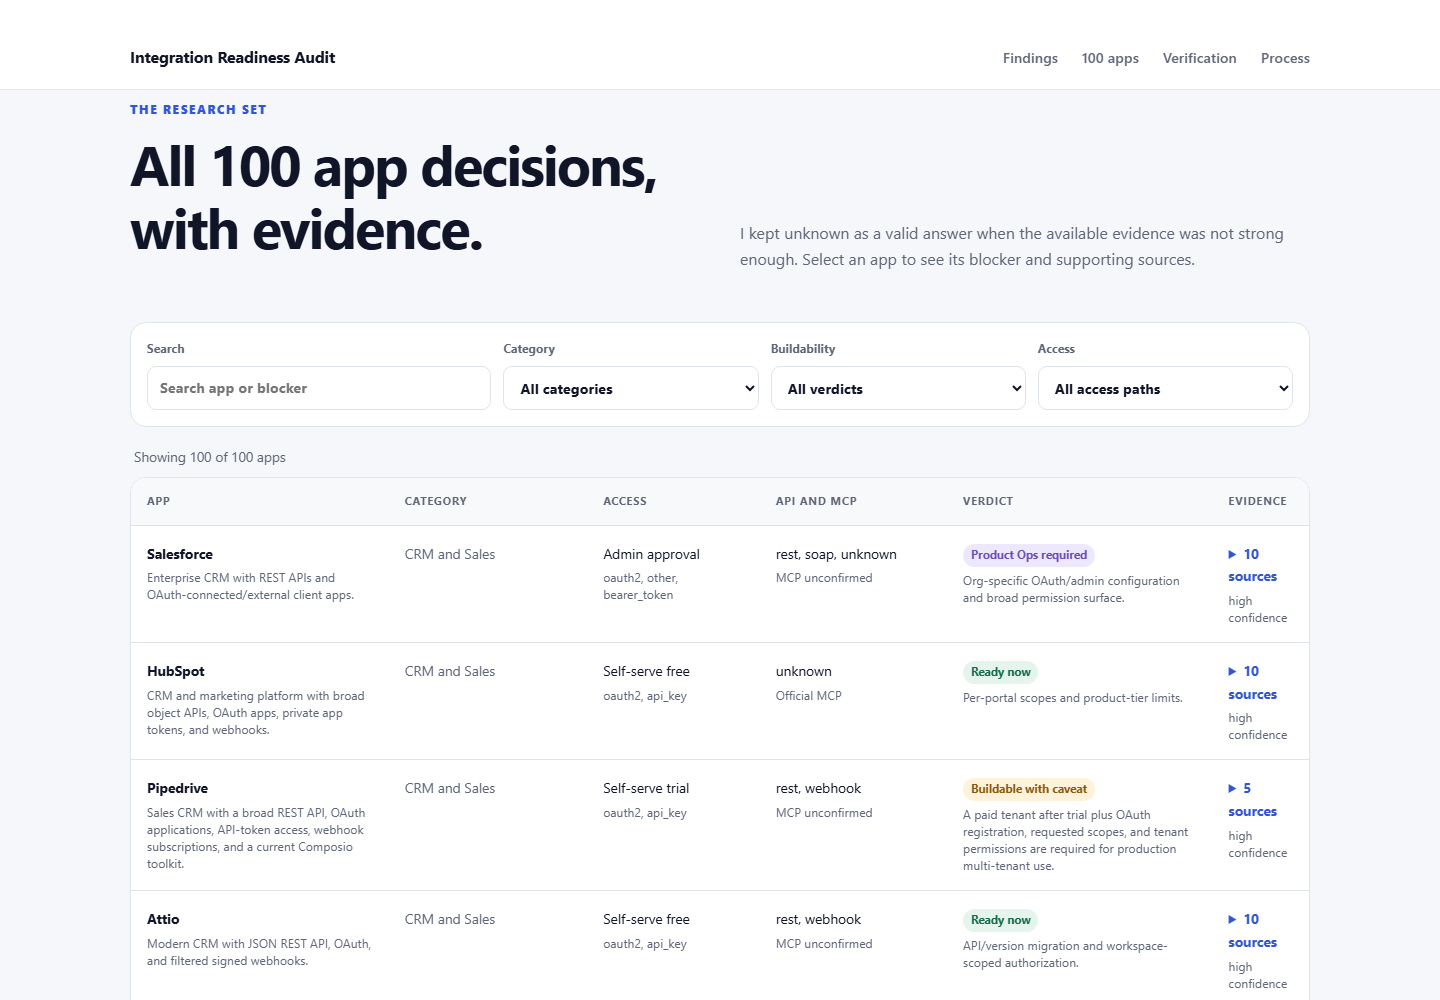
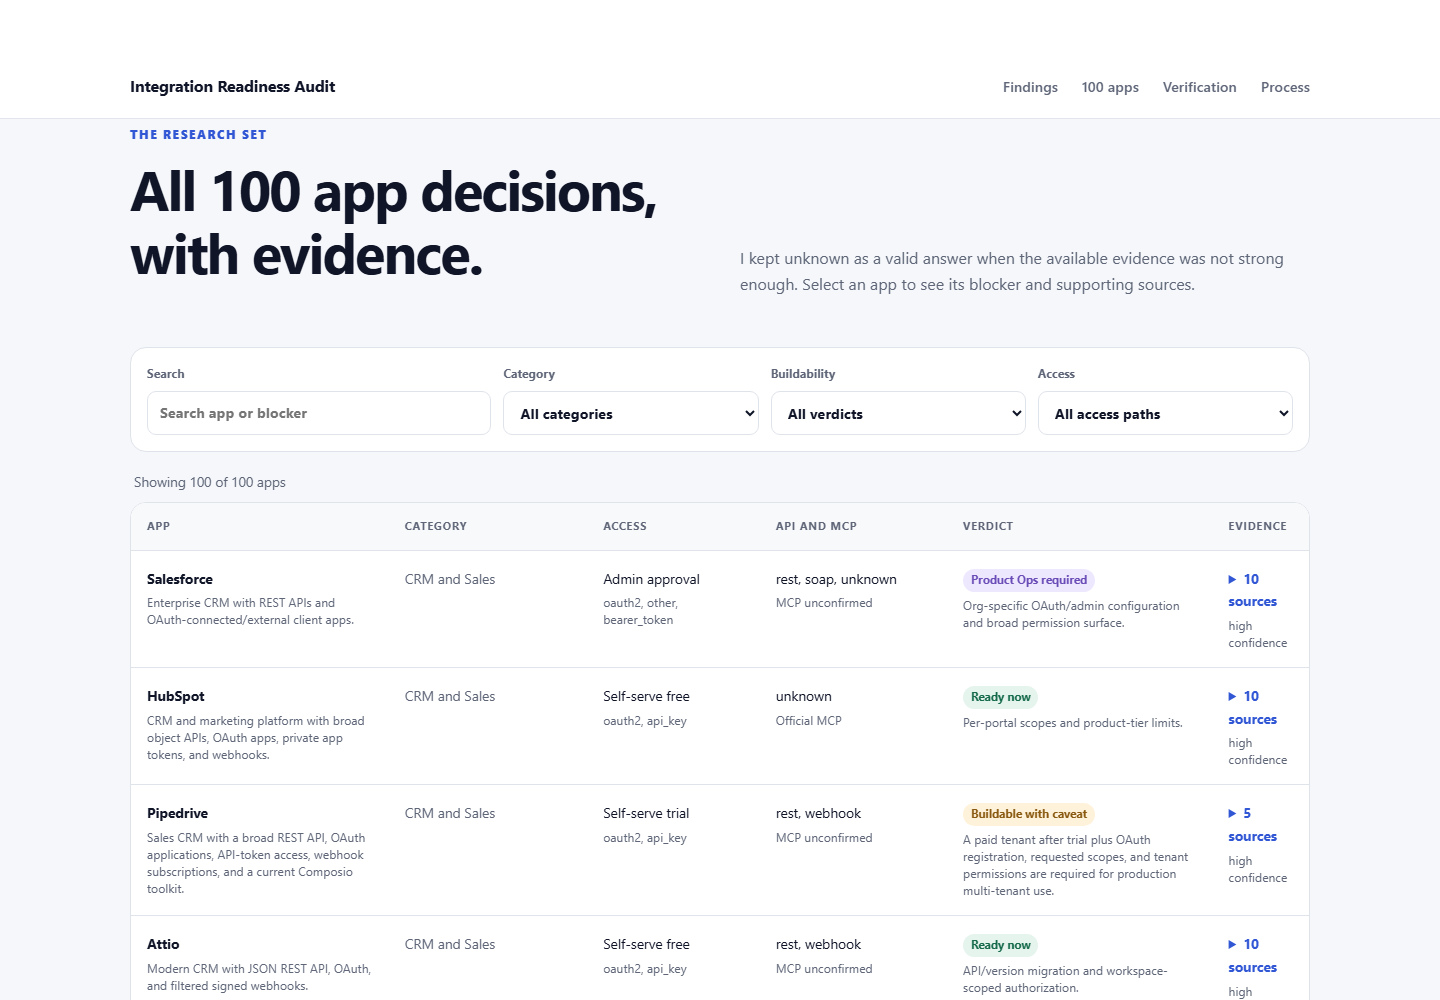
Refine final submission copy and proof

diff --git a/index.html b/index.html
@@ -21,7 +21,6 @@
 
   <main id="top">
     <section class="hero shell">
-      <p class="eyebrow">Composio AI Product Ops take-home</p>
       <h1>API access is common. Production readiness is the constraint.</h1>
       <p class="hero-copy">I researched 100 requested apps to understand which ones could become useful agent tools today, which ones need Product Ops work, and what repeatedly gets in the way. I found that discovering an API is usually the easy part. Credential access, approval gates, incomplete event coverage, and the operational quality of the integration determine whether it is actually ready to ship.</p>
       <div class="metrics" aria-label="Key results">
@@ -30,7 +29,6 @@
         <article><strong>70</strong><span>offer a self-serve access path</span></article>
         <article><strong>20</strong><span>apps independently reviewed</span></article>
       </div>
-      <p class="source-note">The final dataset contains 408 evidence entries classified as official source types. Research was checked on 16 and 17 September 2026.</p>
     </section>
 
     <section id="findings" class="section shell">
@@ -263,12 +261,6 @@ python research_agent.py --app "Notion"</code></pre>
     </section>
   </main>
 
-  <footer>
-    <div class="shell footer-inner">
-      <p>Prepared for the Composio AI Product Ops internship.</p>
-      <p>Research is time-bound. Every app record links back to its supporting evidence.</p>
-    </div>
-  </footer>
   <script src="app.js" defer></script>
 </body>
 </html>

diff --git a/styles.css b/styles.css
@@ -155,9 +155,6 @@ pre { margin: 0; padding: 18px; overflow: auto; border-radius: 10px; background:
 code { font-family: "SFMono-Regular", Consolas, monospace; font-size: 0.85rem; }
 .conclusion { max-width: 900px; margin-left: max(20px, calc((100vw - var(--max)) / 2)); }
 .conclusion > p:not(.eyebrow) { max-width: 760px; color: var(--muted); font-size: 1.08rem; }
-footer { padding: 30px 0; border-top: 1px solid var(--line); }
-.footer-inner { display: flex; justify-content: space-between; gap: 30px; }
-.footer-inner p { margin: 0; color: var(--muted); font-size: 0.78rem; }
 
 @media (max-width: 900px) {
   nav { display: none; }
@@ -187,7 +184,6 @@ footer { padding: 30px 0; border-top: 1px solid var(--line); }
   .matrix-row { grid-template-columns: 1fr 38px; gap: 10px; }
   .matrix-bar { grid-column: 1 / -1; grid-row: 2; }
   .table-wrap { max-height: 620px; }
-  .footer-inner { flex-direction: column; gap: 8px; }
 }
 
 @media (prefers-reduced-motion: reduce) {
